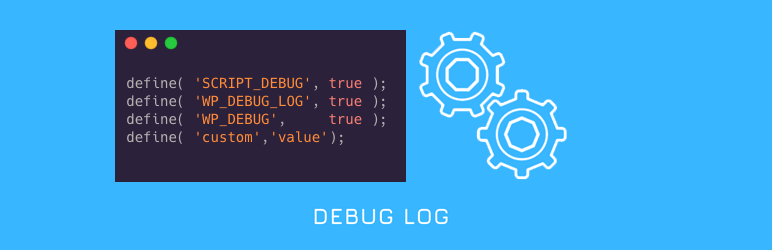
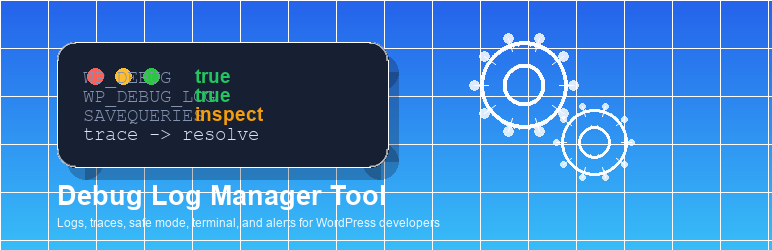
CHORE: Refresh plugin assets and feature docs
## What does this PR do and why?

Refreshes the WordPress.org plugin banner, icon assets, public feature documentation, and 3.0.3 release metadata so the plugin listing better reflects the current debugging toolkit.

**Related issue:** N/A

## Scope

- [x] Free plugin
- [ ] Pro plugin
- [ ] Both

## Changes

- [ ] PHP (backend logic, models, services, hooks)
- [x] Vue/React (admin UI, block editor)
- [ ] CSS/SCSS (styling)
- [ ] Database (migrations, schema changes)
- [ ] REST API (new or changed endpoints)
- [x] Build/config (Vite, composer, CI)

## How to test

1. Run php -l plugin.php.
2. Run php -l app/Controllers/LogController.php.
3. Confirm .wordpress-org banner and icon PNG dimensions are valid.

## Screenshots

Updated WordPress.org banner and icon assets are included under .wordpress-org.

## Anything the reviewer should know?

This is a listing/documentation release. No runtime backend behavior changed.

diff --git a/resources/views/supportView.vue b/resources/views/supportView.vue
@@ -55,7 +55,7 @@
             </section>
 
             <div class="version-info">
-                <Chip label="Version: 3.0.2" icon="pi pi-tag" />
+                <Chip label="Version: 3.0.3" icon="pi pi-tag" />
                 <Chip label="License: GPL v2 or later" icon="pi pi-check-circle" />
             </div>
         </div>

diff --git a/plugin.php b/plugin.php
@@ -5,7 +5,7 @@
  * Plugin Name:       Debug Log Manager Tool
  * Plugin URI:        https://nkb-bd.github.io/
  * Description:       Debug & Query log Helper tool with additional CLI like tools
- * Version:           3.0.2
+ * Version:           3.0.3
  * Author:            Lukman Nakib
  * Author URI:        https://www.linkedin.com/in/lukman-nakib/
  * License:           GPL-2.0+
@@ -20,7 +20,7 @@ if (!defined('ABSPATH')) {
     exit;
 }
 define('DLCT_PLUGIN_URL', plugin_dir_url(__FILE__));
-define('DLCT_PLUGIN_VERSION', '3.0.2');
+define('DLCT_PLUGIN_VERSION', '3.0.3');
 define('DLCT_PLUGIN_MAIN_FILE', __FILE__);
 define('DLCT_PLUGIN_BASENAME', plugin_basename(__FILE__));
 define('DLCT_PLUGIN_DIR', plugin_dir_path(__FILE__));

diff --git a/readme.md b/readme.md
@@ -8,16 +8,16 @@
 **Tags:** debug, debug log, developer, tools
 **Requires at least:** 5.6
 **Tested up to:** 6.6.1
-**Stable tag:** 3.0.2
+**Stable tag:** 3.0.3
 **Requires PHP:** 5.6
 **License:** GPLv2 or later
 **License URI:** https://www.gnu.org/licenses/gpl-2.0.html
 
-Debug Log Manager Tool simplifies WordPress debugging by providing a powerful interface to manage debug logs, toggle settings, and analyze issues directly from your dashboard.
+Debug Log Manager Tool is a WordPress debugging console for managing debug constants, reading logs, inspecting stack traces, running guarded terminal commands, and isolating plugin conflicts from your dashboard.
 
 ## Description
 
-A comprehensive debugging toolkit for WordPress developers and site administrators. This plugin gives you complete control over WordPress debugging without editing wp-config.php files or using FTP.
+A comprehensive debugging toolkit for WordPress developers, agencies, and site administrators. This plugin gives you control over WordPress debugging without editing wp-config.php files or using FTP.
 
 ### 🎥 Quick Demo
 
@@ -25,14 +25,20 @@ A comprehensive debugging toolkit for WordPress developers and site administrato
 
 ### ✨ Key Features
 
-- **WP-CLI Style Terminal**: Execute WordPress commands directly from your browser with syntax highlighting and auto-completion
-- **Database Tools**: Run SQL queries, view table structures, and optimize your database (super admin only)
-- **Debug Constants Manager**: Toggle all WordPress debug constants with a single click
-- **Log Viewer**: View, filter, and analyze debug logs with syntax highlighting and error categorization
-- **Query Inspector**: Examine database queries with SAVEQUERIES support
-- **Email Notifications**: Get alerts when new errors appear in your logs
-- **Safe Mode**: Quickly disable all plugins except selected ones for troubleshooting
-- **Custom Log Paths**: Set custom log file locations with filter support
+- **Debug Constants Manager**: Toggle WP_DEBUG, WP_DEBUG_LOG, WP_DEBUG_DISPLAY, SCRIPT_DEBUG, and SAVEQUERIES without manually editing wp-config.php.
+- **Modern Debug Log Viewer**: View, search, filter, group, and clear debug log entries from a compact WordPress admin interface.
+- **Readable Timeline Rows**: Scan log entries with severity labels, occurrence counts, plugin/source hints, exact timestamps, and copy-as-JSON actions.
+- **Stack Trace Analysis**: Format PHP stack traces and database call chains so long fatal errors are easier to read.
+- **Large Log File Preview**: Open the current debug log file inside a modal and safely read the latest 1 MB of large files.
+- **Query Inspector**: Examine database queries when SAVEQUERIES is enabled, including SQL, caller, execution time, and stack trace details.
+- **WP-CLI Style Terminal**: Run guarded WordPress-style commands directly from the browser with command history and auto-completion.
+- **Terminal Settings**: Enable or disable terminal access and database commands from a dedicated settings screen.
+- **Safe Mode**: Temporarily isolate plugin conflicts by keeping selected plugins active and restoring the previous state when Safe Mode is turned off.
+- **Email Notifications**: Configure notification email settings, daily summaries, and test email delivery for debug activity.
+- **Admin Bar Debug Toggle**: Quickly enable or disable WP_DEBUG from the WordPress admin bar.
+- **Dashboard Widget**: See recent debug log activity from the WordPress dashboard.
+- **Custom Log Path Support**: Use filters to customize the debug log location.
+- **Hardened Admin Routes**: AJAX actions use nonce and capability checks, with guarded file path handling for debug log access.
 
 ### 🔧 Debug Constants Available
 
@@ -51,6 +57,8 @@ A comprehensive debugging toolkit for WordPress developers and site administrato
 - **Stack Trace Analysis**: Visualize error stack traces for easier debugging
 - **Hook Inspector**: View all registered hooks and their callbacks
 - **Environment Detection**: Using Laravel Mix to automatically hide development features in production
+- **Copy JSON**: Copy structured log entries for support tickets or developer handoff
+- **File Viewer**: Inspect the debug log file without leaving the WordPress admin screen
 
 > **Developer API**: Apply custom filters like `apply_filters('wp_debuglog_log_file_path', $file);` to extend functionality
 
@@ -106,10 +114,14 @@ Yes you can see a simple log in dashboard widget and nicely formatted view in th
 Safe mode will deactivate all the plugin except the selected one. When you turn safe mode off it will restore all the previous activated plugin.
 
 ## Screenshots
-1. **Plugin Settings**
-2. **Debug Log**
+1. **Debug log timeline with filters, grouped events, and file tools**
+2. **Terminal and database debugging commands**
+3. **Safe Mode and settings screens**
 
 ## Changelog
+### 3.0.3
+- Refreshed plugin directory assets and feature documentation.
+
 ### 3.0.2
 - Improved debug log time labels so older entries show exact dates instead of misleading relative age text.
 - Normalized the plugin name spelling on public plugin metadata.

diff --git a/CHANGELOG.md b/CHANGELOG.md
@@ -5,6 +5,11 @@ All notable changes to the Debug Log Manager Tool plugin will be documented in t
 The format is based on [Keep a Changelog](https://keepachangelog.com/en/1.0.0/),
 and this project adheres to [Semantic Versioning](https://semver.org/spec/v2.0.0.html).
 
+## [3.0.3] - 2026-05-22
+
+### Changed
+- Refreshed plugin directory assets and feature documentation.
+
 ## [3.0.2] - 2026-05-20
 
 ### Changed